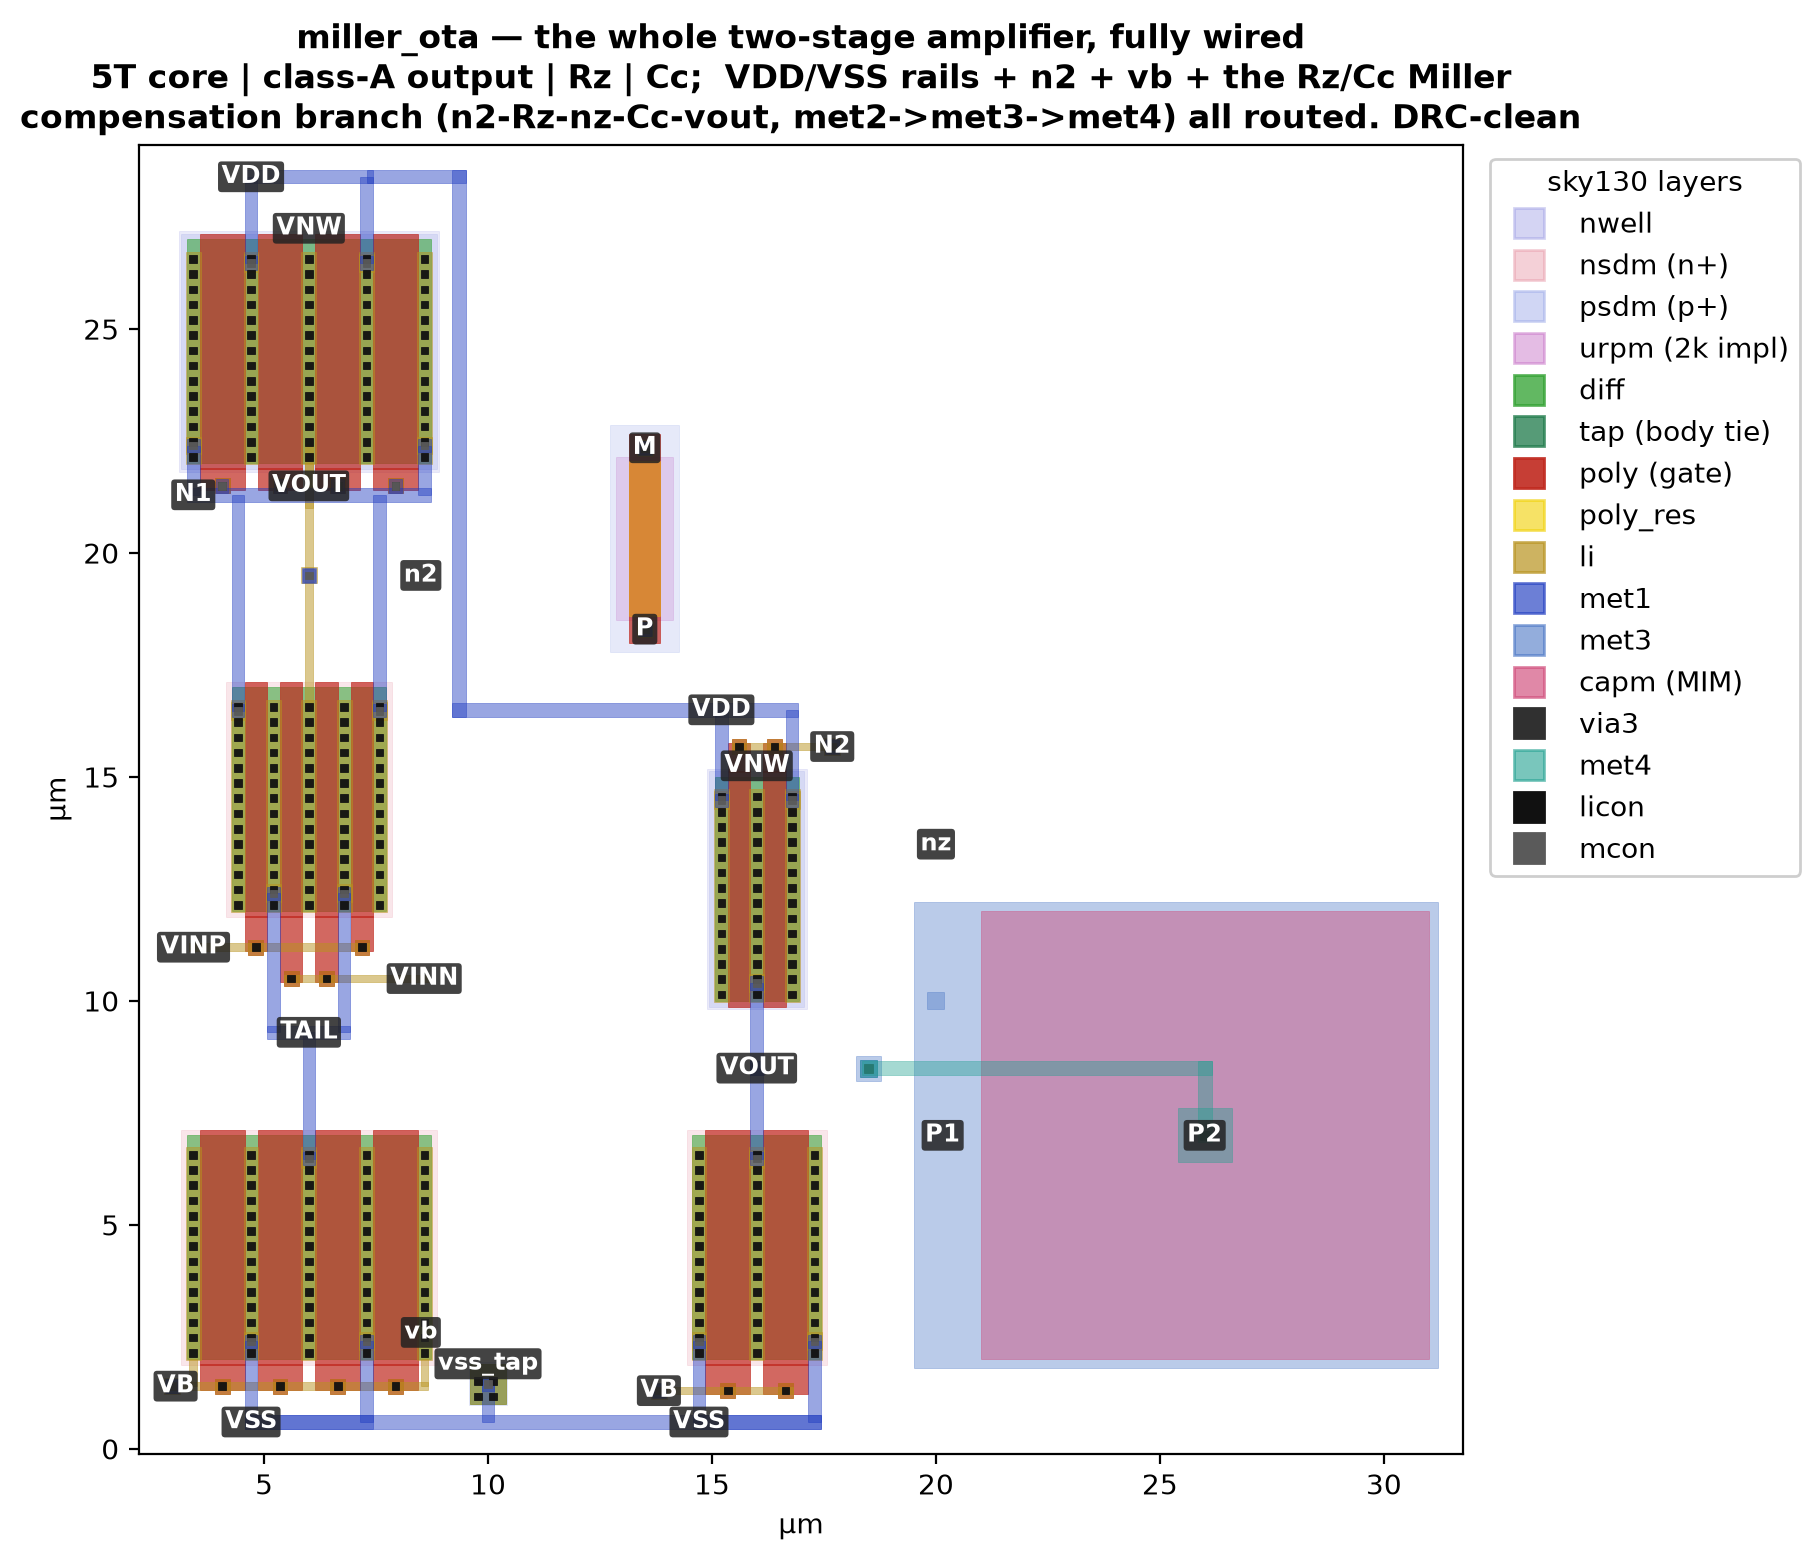
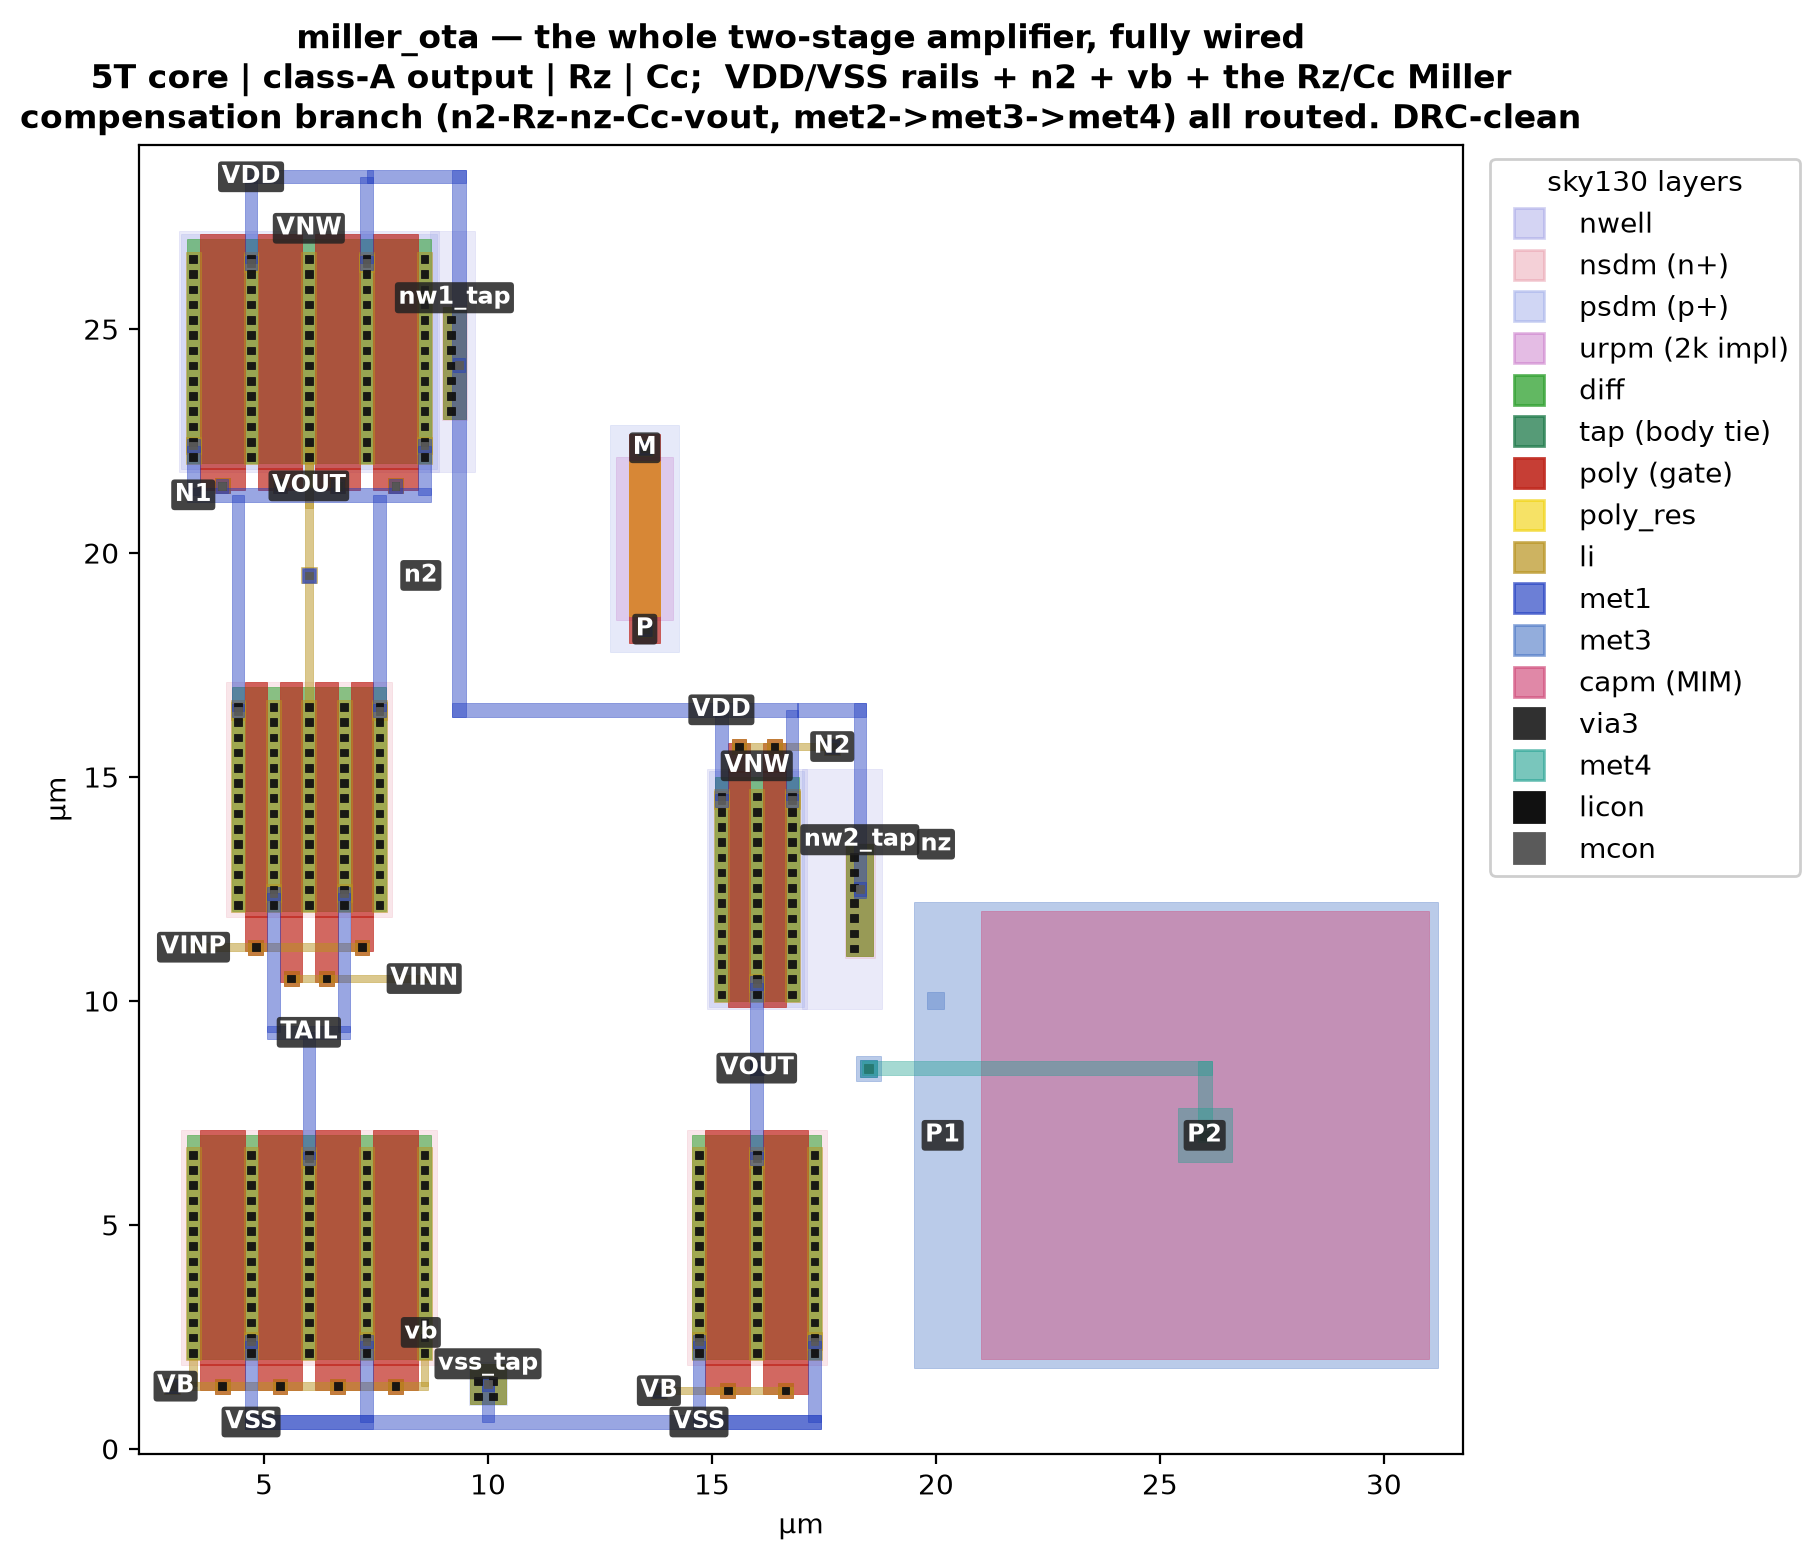
Phase 2: nwell body ties -- the amplifier is now fully body-tied
An n+ tap in each of the two wells (the stage-1 mirror and the stage-2
PMOS) ties the PMOS bulks to VDD; the wells are widened at the top level
into the open area to make room for the taps. With the substrate tie from
the last commit, every transistor bulk now sits on its rail.

Re-extraction confirms it: all 3 PMOS bulk = VDD (were floating nwell
nets), all 5 NMOS bulk = VSS. run_amp_extract.py now asserts both
(PMOS->VDD, NMOS->VSS). Deck recipe, same shape as the substrate:
ntap_conn = tap.and(nsdm).and(nwell) + connect(nwell, ntap_conn) -- again
on the tap layer (65/44), not active diff.

The amplifier is now drawn, fully wired, fully body-tied, and its device
set + connectivity + body ties are all extraction-verified. Everything
the flow can prove before a full-size redraw is done and green. verify.py:
13 cells DRC-clean, 7 LVS-matched, passives + whole amp (incl. all body
ties) extraction-verified. README/docs/PLAN updated.

Claude-Session: https://claude.ai/code/session_01YZz61HuW2quRqnQmP8mkSx

Changed region(s): [[0.4308, 0.4308, 0.5231, 0.6154], [0.2154, 0.1538, 0.2769, 0.2769]]

diff --git a/layout/build.py b/layout/build.py
@@ -517,6 +517,22 @@ def build_miller_ota():
     D.via(top, 10.0, 1.45)                                          # li -> met1
     D.strap(top, 10.0 - 0.14, 0.6, 10.0 + 0.14, 1.55, layer=D.MET1)  # down onto VSS rail
     D.label(top, "vss_tap", 10.0, 1.9, layer=D.LILBL)
+
+    # nwell body ties: an n+ tap in each well -> VDD. The wells are widened at the
+    # top level into the open area to make room; the taps are on the tap layer so
+    # the extractor bonds nwell -> ntap -> VDD (as the substrate tie does for VSS).
+    # stage-1 mirror well -> the VDD-tie met1 running down the gap
+    D._r(top, D.NWELL, 8.7, 21.82, 9.7, 27.18)
+    D.tap(top, 9.0, 23.0, 9.5, 25.5, kind="n")
+    D.via(top, 9.35, 24.2)                                          # tap li -> VDD tie
+    D.label(top, "nw1_tap", 9.25, 25.7, layer=D.LILBL)
+    # stage-2 PMOS well -> up to the stage-2 VDD rail
+    D._r(top, D.NWELL, 17.0, 9.82, 18.8, 15.18)
+    D.tap(top, 18.0, 11.0, 18.6, 13.5, kind="n")
+    D.via(top, 18.3, 12.5)
+    D.strap(top, 18.3 - 0.14, 12.3, 18.3 + 0.14, 16.65, layer=D.MET1)   # up
+    D.strap(top, 16.9, 16.35, 18.3 + 0.14, 16.65, layer=D.MET1)         # to VDD rail
+    D.label(top, "nw2_tap", 18.3, 13.6, layer=D.LILBL)
     top.flatten()
     lib = gdstk.Library()
     lib.add(top)

diff --git a/layout/run_amp_extract.py b/layout/run_amp_extract.py
@@ -64,6 +64,16 @@ def main():
         ok &= hit
         print(f"  net {name}: {'OK' if hit else 'FAIL'}")
 
+    # body ties: every transistor bulk (the 4th terminal) sits on its rail
+    joined = re.sub(r"\\\s*\r?\n", " ", txt).splitlines()
+    pb = [ln.split()[4] for ln in joined if "pfet_01v8" in ln and ln[:1] == "M"]
+    nb = [ln.split()[4] for ln in joined if "nfet_01v8" in ln and ln[:1] == "M"]
+    bok = (len(pb) == 3 and all("VDD" in b for b in pb) and
+           len(nb) == 5 and all("VSS" in b for b in nb))
+    ok &= bok
+    print(f"  bodies (PMOS bulk->VDD, NMOS bulk->VSS): "
+          f"{'OK' if bok else 'FAIL ' + str(pb) + str(nb)}")
+
     print(f"miller_ota: {'EXTRACT-OK -- 10 devices, key nets connected'
                          if ok else 'FAIL'}")
     return 0 if ok else 1

diff --git a/docs/layout.md b/docs/layout.md
@@ -263,37 +263,43 @@ opposite sides from `miller_ota.sp`'s inverting convention. The topology is
 identical; which input is the inverting one is a label choice (swap the two
 `VIN` labels to match the schematic's feedback sign).
 
-## The substrate body tie
+## Body ties — the amplifier is fully tied
 
-Left untied, the amplifier's substrate floats — the extractor puts all five NMOS
-bulks on a nameless `sky130_gnd` net, separate from `VSS`. A single **p+ tap**
-in the open gap, wired down to the `VSS` rail, fixes it: the substrate is one
-global net, so one contact ties the whole NMOS bulk to `VSS` (real silicon needs
-this against latch-up and substrate noise). The re-extraction confirms it — all
-five NMOS now report **bulk = `VSS|vss_tap`**, and `run_amp_extract.py` asserts it.
+Left untied, the amplifier's bodies float: the extractor puts all five NMOS bulks
+on a nameless `sky130_gnd` net and each nwell on its own floating net, none of
+them on a rail. Real analog silicon can't ship that way (latch-up, substrate and
+well noise). So the assembly ties them all:
+
+- **Substrate → VSS**: a single **p+ tap** in the open gap, wired to the `VSS`
+  rail. The substrate is one global net, so one contact ties the whole NMOS bulk.
+- **Each nwell → VDD**: an **n+ tap** in each of the two wells (the stage-1 mirror
+  and the stage-2 PMOS), wired to `VDD`. The wells are *widened* at the top level
+  into the open area to make room for the taps.
+
+The re-extraction confirms all of it — **all 5 NMOS report bulk = `VSS`, all 3
+PMOS report bulk = `VDD`** — and `run_amp_extract.py` asserts both. The amplifier
+is now fully body-tied.
 
 The catch worth recording: a body tie must be drawn on the **`tap` layer (65/44)**,
-not plain active diff (65/20). The deck's `ptap_conn = tap.and(psdm).not(nwell)`
-then `connect(sub, ptap_conn)` is what bonds the global substrate to the contact —
-a diff-drawn tap is DRC-clean but electrically does nothing, which is exactly what
-the first attempt showed (li merged to `VSS`, substrate still floating). The
-**nwell** ties (an n+ tap in each well → `VDD`) need the wells widened to make
-room, so they ride with the production redraw.
+not plain active diff (65/20). The deck bonds the substrate through `ptap_conn =
+tap.and(psdm).not(nwell)` → `connect(sub, ptap_conn)`, and a well through
+`ntap_conn = tap.and(nsdm).and(nwell)` → `connect(nwell, ntap_conn)`. A diff-drawn
+tap is DRC-clean but electrically inert — exactly what the first attempt showed
+(the tap's li merged to `VSS`, yet the substrate stayed floating on `sky130_gnd`).
 
 ## What's next
 
-The amplifier is drawn, **fully wired**, and its device set + connectivity are
-**extraction-verified**. What remains is signoff and realism:
+The amplifier is drawn, **fully wired**, **fully body-tied**, and its device set +
+connectivity + body ties are all **extraction-verified**. What remains is a single
+tapeout-prep effort, not a set of gaps:
 
-- **Parasitic (RC) re-simulation** — the extractor confirms the *netlist*; the
-  next step is a parasitic-annotated re-sim to see how the layout's coupling and
-  wire R move the phase margin and THD. That is only meaningful at **production
-  sizing** (below), since a scaled stand-in's numbers wouldn't reproduce the
-  schematic benches.
-- **Production sizing** — the blocks stand in at scaled W (W = 10 for the W = 60
-  output device, ~200 fF for the 4 pF `Cc`); a real tapeout redraws them at full
-  size, which mostly means more fingers / larger plates, not new topology.
-- **The nwell body ties** (n+ tap in each well → VDD) — the substrate is already
-  tied (above); the wells need widening for the taps, so they go in with the
-  production redraw, alongside the `vinp`/`vinn` label swap that sets the feedback
-  sign (see above).
+- **Production sizing + parasitic (RC) re-simulation** — the blocks stand in at
+  scaled W (W = 10 for the W = 60 output device, ~200 fF for the 4 pF `Cc`). A
+  tapeout redraws them at full size (mostly more fingers / larger plates, not new
+  topology), and *then* a parasitic-annotated re-sim — how the layout's coupling
+  and wire R move the phase margin and THD — becomes meaningful (a scaled stand-in's
+  numbers wouldn't reproduce the schematic benches). The `vinp`/`vinn` label swap
+  that sets the feedback sign (see above) goes in at the same pass.
+
+Everything the flow can prove *before* that redraw — DRC, LVS, the whole-amp
+device set, connectivity and body ties — is done and green.

diff --git a/README.md b/README.md
@@ -255,18 +255,19 @@ It went device → matched pair → stage → amplifier:
 Full blow-by-blow, every layer-coloured figure, and the routing schemes are in
 [`docs/layout.md`](docs/layout.md).
 
-The substrate is body-tied too — a p+ tap wired to `VSS` ties the whole NMOS bulk
-(the re-extraction confirms `bulk = VSS`), the tie every real analog block needs
-against latch-up and substrate noise.
+The amplifier is **fully body-tied** too — a p+ tap ties the whole NMOS bulk to
+`VSS`, and an n+ tap in each nwell ties the PMOS bulks to `VDD` (the re-extraction
+confirms every transistor bulk on its rail), the ties every real analog block
+needs against latch-up and substrate/well noise.
 
-**Next:** the netlist is confirmed by extraction; the remaining signoff is a
-**parasitic (RC) re-simulation** — how the layout's coupling moves the phase
-margin and THD — which is only meaningful once the blocks are redrawn at
-**production sizing** (they stand in at scaled W; a tapeout mostly adds fingers,
-not new topology), alongside the nwell body ties (the wells need widening for the
-taps). A wider-ICMR input (rail-to-rail / complementary pair) also stays on the
-shelf as the path to THD below 0.1 % at full swing. Full roadmap in
-[`PLAN.md`](PLAN.md).
+**Next:** everything the flow can prove before a full-size redraw — DRC, LVS, the
+whole-amp device set, connectivity and body ties — is done and green. The one
+remaining effort is **production sizing + a parasitic (RC) re-simulation**: redraw
+the blocks at full W (they stand in at scaled W; a tapeout mostly adds fingers,
+not new topology), then a parasitic-annotated re-sim of how the layout's coupling
+moves the phase margin and THD becomes meaningful. A wider-ICMR input (rail-to-rail
+/ complementary pair) also stays on the shelf as the path to THD below 0.1 % at
+full swing. Full roadmap in [`PLAN.md`](PLAN.md).
 
 ### The whole op-amp, assembled and fully wired
 

diff --git a/PLAN.md b/PLAN.md
@@ -190,10 +190,16 @@ Console roles (why each block exists):
       to the VSS rail ties the whole NMOS bulk to VSS. Extraction confirms all 5
       NMOS **bulk = `VSS|vss_tap`** (was floating `sky130_gnd`); `run_amp_extract`
       asserts it. Deck: `ptap_conn = tap.and(psdm).not(nwell)`; `connect(sub,ptap_conn)`.
-- [ ] **nwell body ties** (n+ tap in each well → VDD; wells need widening) +
-      **parasitic (RC) re-simulation** (meaningful only at **production full-W
-      sizing** — scaled stand-ins won't reproduce the benches) + the `vinp`/`vinn`
-      feedback-sign label swap — the tapeout-prep pass.
+- [x] **nwell body ties** (`miller_ota`): an n+ `tap` in each of the two wells
+      (stage-1 mirror + stage-2 PMOS), wells widened at the top level for room,
+      wired to VDD. Extraction confirms **all 3 PMOS bulk = VDD** (were floating);
+      `run_amp_extract` now asserts PMOS→VDD + NMOS→VSS. Deck: `ntap_conn =
+      tap.and(nsdm).and(nwell)`; `connect(nwell, ntap_conn)`. **The amp is now
+      fully body-tied.** Everything the flow can prove pre-redraw is done + green.
+- [ ] **Production full-W sizing + parasitic (RC) re-simulation** (redraw blocks
+      at full W → parasitic-annotated re-sim becomes meaningful; scaled stand-ins
+      won't reproduce the benches) + the `vinp`/`vinn` feedback-sign label swap —
+      one tapeout-prep redraw pass.
 
 ## Phase 3 — comparator
 